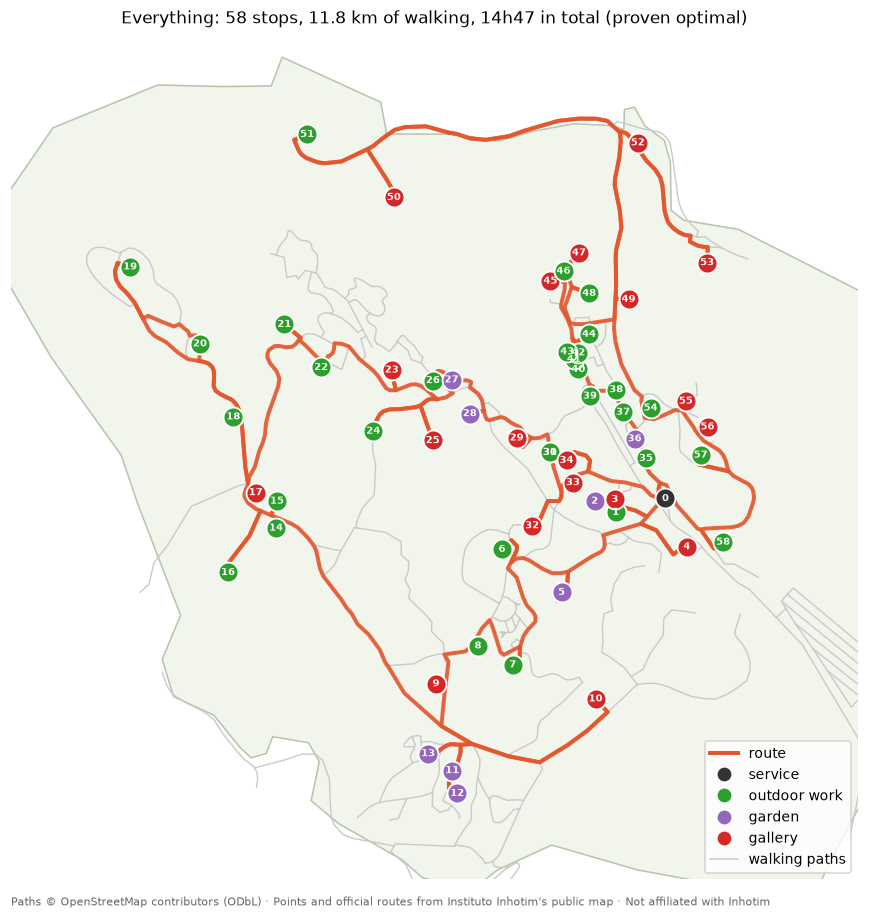
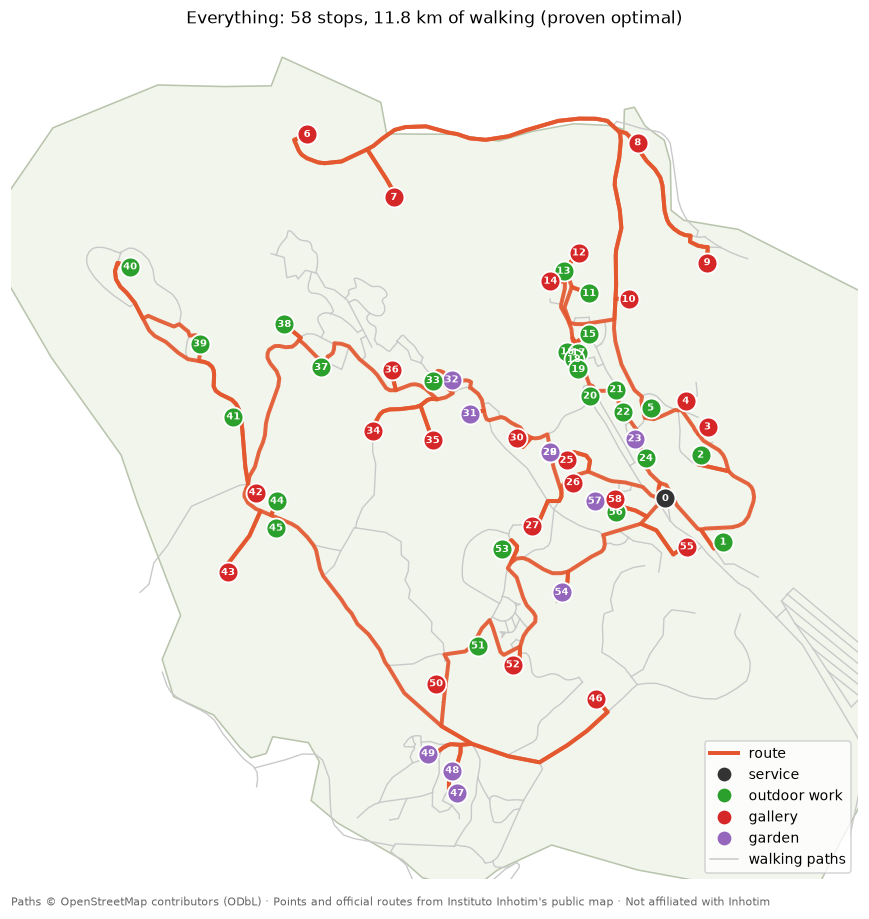
docs: README without the time budget, with the galleries route

diff --git a/scripts/plot_route.py b/scripts/plot_route.py
@@ -2,7 +2,7 @@
 
 Used for the figures in the README. Matplotlib is not a project dependency, so run it with:
 
-    uv run --with matplotlib python scripts/plot_route.py output/6h.geojson docs/img/route-6h.png
+    uv run --with matplotlib python scripts/plot_route.py output/galleries.geojson docs/img/route-galleries.png
 """
 
 from __future__ import annotations

diff --git a/README.md b/README.md
@@ -12,23 +12,22 @@ order* to see them.
 
 `inhotim-path` reads the museum's live map, turns it into a walking graph, and computes:
 
-- 🧭 **the shortest route to see everything**: a Traveling Salesman Problem (TSP) over real walking paths;
-- ⏱ **the best route for the time you have**: an Orienteering Problem that maximizes your time with the art
-  within a time budget, with your must-sees always included;
-- 📱 **[a web app](https://andreixzc.github.io/inhotim-path/)** that plans the shortest walk through what you choose,
-  in your browser, at home or on site, even starting from where you are;
+- 🧭 **the shortest walk through what you choose**: everything, some of the museum's categories, or stop by
+  stop. It's a Traveling Salesman Problem (TSP) over real walking paths;
+- 📱 **[a web app](https://andreixzc.github.io/inhotim-path/)** that plans it in your browser, at home or on site,
+  even starting from where you are;
 - 📅 *(planned)* slope-aware walking times, opening hours, multi-day plans and live re-planning as you go.
 
 > **Status:** the command-line tool works end to end (Phase 1), and its data refreshes itself every day.
 > The web app is live at **<https://andreixzc.github.io/inhotim-path/>**. See the [roadmap](docs/roadmap.md).
 
 <p align="center">
-  <img src="docs/img/route-all.png" width="49%" alt="The optimal tour through all 58 stops">
-  <img src="docs/img/route-6h.png" width="49%" alt="The best 6-hour route">
+  <img src="docs/img/route-all.png" width="49%" alt="The shortest walk through all 58 stops">
+  <img src="docs/img/route-galleries.png" width="49%" alt="The shortest walk through the 23 galleries">
 </p>
 
-Seeing *everything* means 58 stops, 11.8 km of walking and **15h35** in total: more than one visiting day.
-Hence the time budget: the best 6-hour visit covers 24 stops with only 40 minutes of walking.
+Seeing *everything* means 58 stops and 11.8 km of walking, about **15½ hours** with the time at each stop: more
+than one visiting day. So you choose what to see. The 23 galleries alone are an 8.4 km walk.
 
 ## How it works
 
@@ -53,45 +52,47 @@ right away.
 git clone https://github.com/Andreixzc/inhotim-path.git
 cd inhotim-path
 uv sync
-uv run inhotim-path route --budget 4h --start-time 10:00 --html output/route.html
+uv run inhotim-path route --kinds gallery --start-time 10:00 --html output/route.html
 ```
 
 ```text
-Inhotim route: 17 stops · 1.8 km walking (27 min) + 3h32 at stops = 3h59
-walking speed 4 km/h · time at each stop: gallery 20m, outdoor_work 8m, garden 10m
-time budget 4h00 · 41 stops left out
+Inhotim route: 23 stops · 8.4 km walking (2h06) + 7h40 at stops = 9h46
+walking speed 4 km/h · time at each stop: gallery 20m
+route quality: proven optimal
 
   #       time  stop                                            kind           walk from previous
   0      10:00  Recepção                                        service
-  1      10:01  Bisected Triangle, Interior Curve               outdoor_work   91 m · 1 min
-  2      10:10  Jardim Pictórico                                garden         56 m · 1 min
-  3      10:22  Galeria Marcenaria                              gallery        134 m · 2 min
-  4      10:43  Galeria Lago                                    gallery        91 m · 1 min
+  1      10:01  Galeria Praça                                   gallery        122 m · 2 min
+  2      10:24  Galeria Lygia Pape                              gallery        188 m · 3 min
+  3      10:49  Galeria Cildo Meireles                          gallery        350 m · 5 min
+  4      11:11  Galeria Rivane Neuenschwander                   gallery        111 m · 2 min
   ...
- 15      12:51  Galeria Adriana Varejão                         gallery        163 m · 2 min
- 16      13:13  Galeria Rivane Neuenschwander                   gallery        129 m · 2 min
- 17      13:35  Galeria Cildo Meireles                          gallery        111 m · 2 min
- 18      13:58  Recepção                                        service        214 m · 3 min
+ 21      18:36  Doris Salcedo                                   gallery        609 m · 9 min
+ 22      19:01  Galeria Lago                                    gallery        347 m · 5 min
+ 23      19:22  Galeria Marcenaria                              gallery        91 m · 1 min
+ 24      19:46  Recepção                                        service        251 m · 4 min
+
+Seeing all of it takes 9h46, more than a single visiting day.
+Choose fewer stops with --kinds or --exclude.
 ```
 
 Open `output/route.html` in a browser for the route on a map. More examples:
 
 ```bash
-uv run inhotim-path route                                   # everything (TSP), proven optimal
-uv run inhotim-path route --budget 5h30 --must kusama "beam drop"
-uv run inhotim-path route --budget 3h --kinds gallery --dwell gallery=30
-uv run inhotim-path route --budget 6h --exclude cosmococa --geojson output/route.geojson
+uv run inhotim-path route                                   # everything: 58 stops, proven optimal
+uv run inhotim-path route --kinds garden --must kusama "beam drop"   # the gardens, plus 3 stops
+uv run inhotim-path route --kinds gallery --dwell gallery=30         # 30 minutes per gallery
+uv run inhotim-path route --exclude cosmococa --geojson output/route.geojson
 uv run inhotim-path fetch                                   # refresh data/ from the live map (rarely!)
 ```
 
 | Option | Meaning |
 |---|---|
-| `--budget 4h` · `5h30` · `90m` | The best route that fits that time. Default: see everything. |
-| `--must NAME…` | Must-see stops: a name or an artist, accents and case optional. |
-| `--exclude NAME…` | Stops to skip. |
 | `--kinds KIND…` | `gallery`, `outdoor_work`, `garden` (default), `exhibition`, `work_in_gallery`, `botanical`, `event`. |
 | `--botanical` | Also stop at botanical highlights. |
-| `--dwell KIND=MIN…` | Minutes at each kind of stop. Under a budget, also how much that kind counts. |
+| `--must NAME…` | Stops to add, whatever their kind: a name or an artist, accents and case optional. |
+| `--exclude NAME…` | Stops to skip. |
+| `--dwell KIND=MIN…` | Minutes at each kind of stop, for the itinerary's times. They don't change the route. |
 | `--speed KMH` | Walking speed (default 4). |
 | `--start NAME` · `--start-time HH:MM` | Start/end point (default: Recepção) and clock times. |
 | `--html PATH` · `--geojson PATH` | Write the route as a standalone map page or as GeoJSON. |
@@ -101,14 +102,14 @@ uv run inhotim-path fetch                                   # refresh data/ from
 ### How the route is chosen
 
 - **Walking** follows real footpaths: OpenStreetMap, plus the museum's official routes where OSM has gaps.
-- **Everything** (no budget): the shortest closed tour from the reception. It's proven optimal.
-- **With a budget:** the route that spends the most minutes at stops, then walks the least. Must-sees are
-  always in; if they can't fit, you're told so.
+- **The route** is the shortest closed walk from the reception through every stop you choose. There's no time
+  limit: you choose what fits your day ([why](history/decisions/0015-no-time-budget-in-the-command-line.md)).
 - **Solver:** [OR-Tools CP-SAT](https://developers.google.com/optimization/cp/cp_solver). The itinerary says when
-  a route is proven optimal ([why CP-SAT](history/decisions/0004-cp-sat-circuit-solver.md),
-  [why minutes](history/decisions/0005-stop-value-is-viewing-time.md)).
+  a route is proven optimal: the 58 default stops are, in under a second
+  ([why CP-SAT](history/decisions/0004-cp-sat-circuit-solver.md)).
 - **Times:** walking time = shortest path length ÷ 4 km/h, plus a fixed time at each stop by kind (gallery
-  20 min, outdoor work 8, garden 10; change them with `--dwell`).
+  20 min, outdoor work 8, garden 10; change them with `--dwell`). They're estimates on top of the route and
+  don't change it.
 - **Assumptions:** flat ground (Inhotim is hilly: slope-aware times are planned) and guessed time per stop.
   Opening hours, queues and breaks aren't modeled yet.
 
@@ -139,8 +140,9 @@ uv run inhotim-path web-data              # writes web/data/park.json from data/
 python3 -m http.server -d web 8000        # then open http://localhost:8000
 ```
 
-It plans with heuristics instead of CP-SAT. Routes with up to 12 stops are solved exactly. In the benchmark, its
-tours through everything (58 and 89 stops) were as short as CP-SAT's proven optimum, in about 0.1 s.
+It plans with heuristics instead of CP-SAT. Routes with up to 12 stops are solved exactly. In the benchmark (every
+mix of the four categories, five seeds each), its walks matched CP-SAT's proven optimum in 73 of 75 runs. The other
+two were 1.3 m longer, out of 12.4 km. The slowest plan took 0.14 s.
 `.github/workflows/pages.yml` publishes it on GitHub Pages after CI passes on `main`, and again after each data
 refresh. For the satellite view, set a repository variable `MAPTILER_API_KEY` with a MapTiler key restricted to
 the site's domain.
@@ -152,7 +154,7 @@ uv run pytest                        # tests (no network needed)
 uv run ruff check .                  # lint
 uv run ruff format .                 # format
 node --test tests/web/*.test.mjs     # web app tests
-uv run python scripts/benchmark_web_solver.py   # web planner vs CP-SAT on the real park (~10 min)
+uv run python scripts/benchmark_web_solver.py   # web planner vs CP-SAT on the real park (~10 s)
 ```
 
 CI runs all of this on every push. Code layout and design: [architecture](docs/architecture.md).
